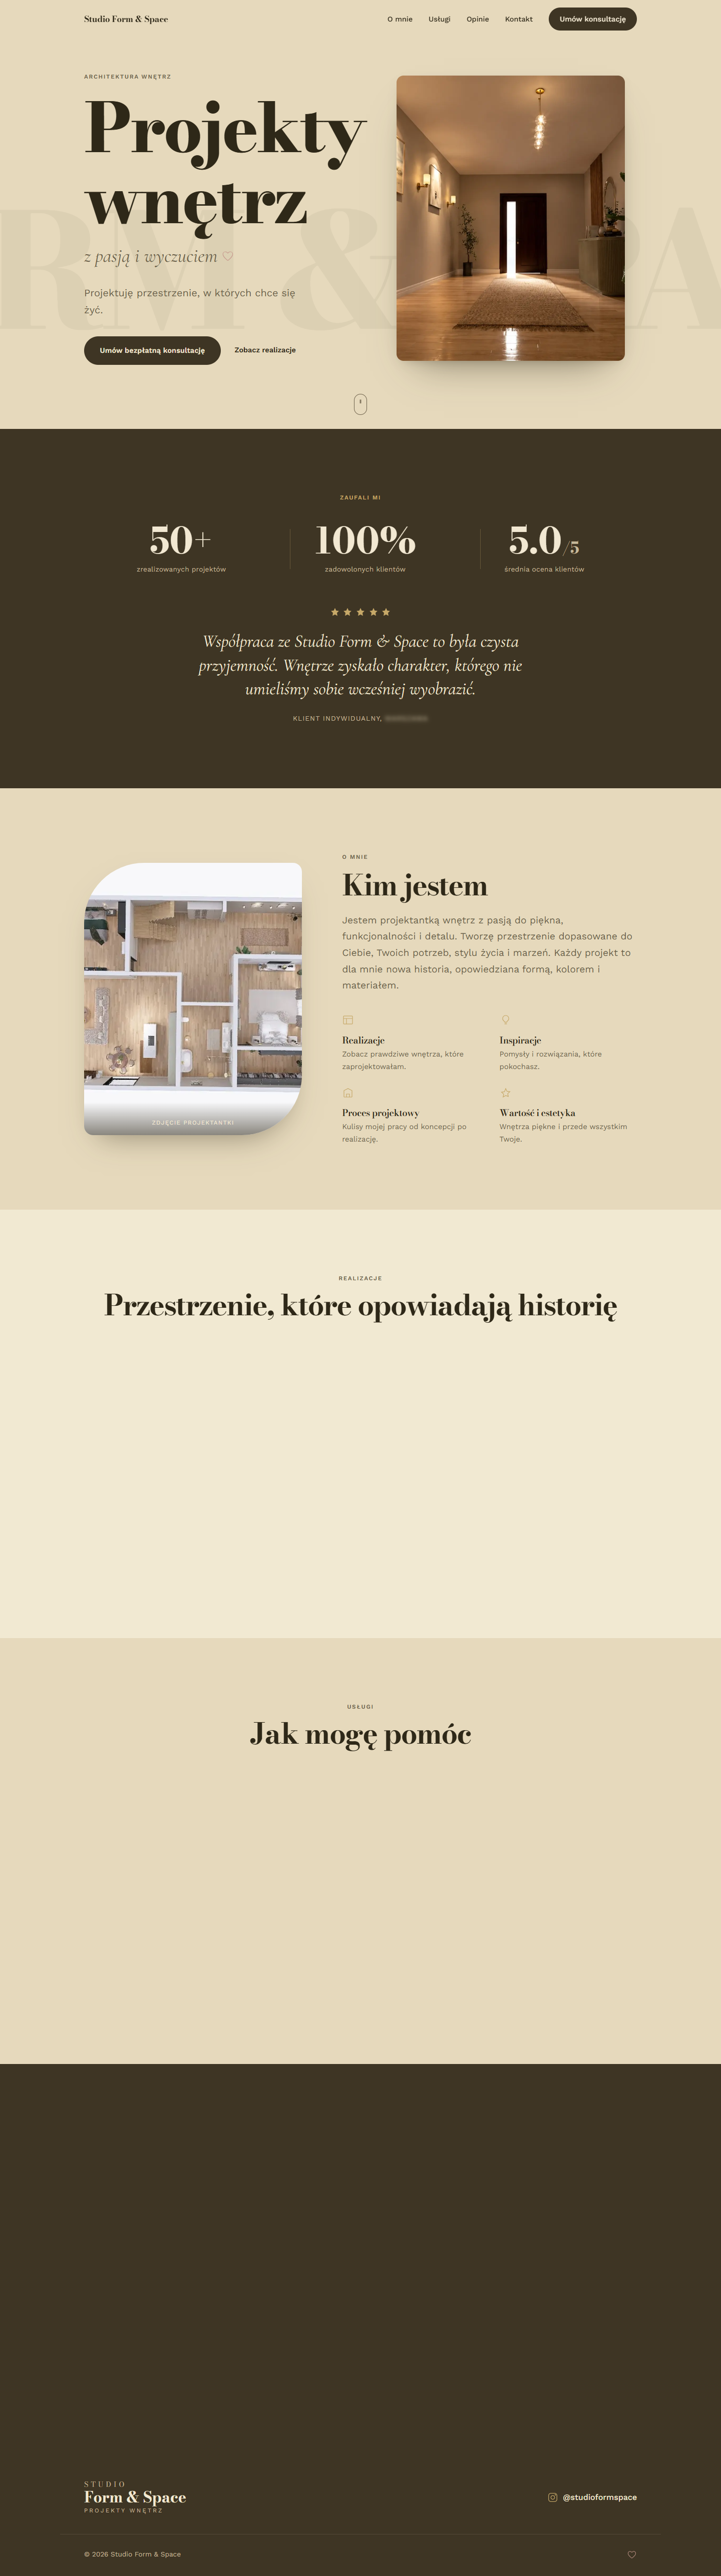
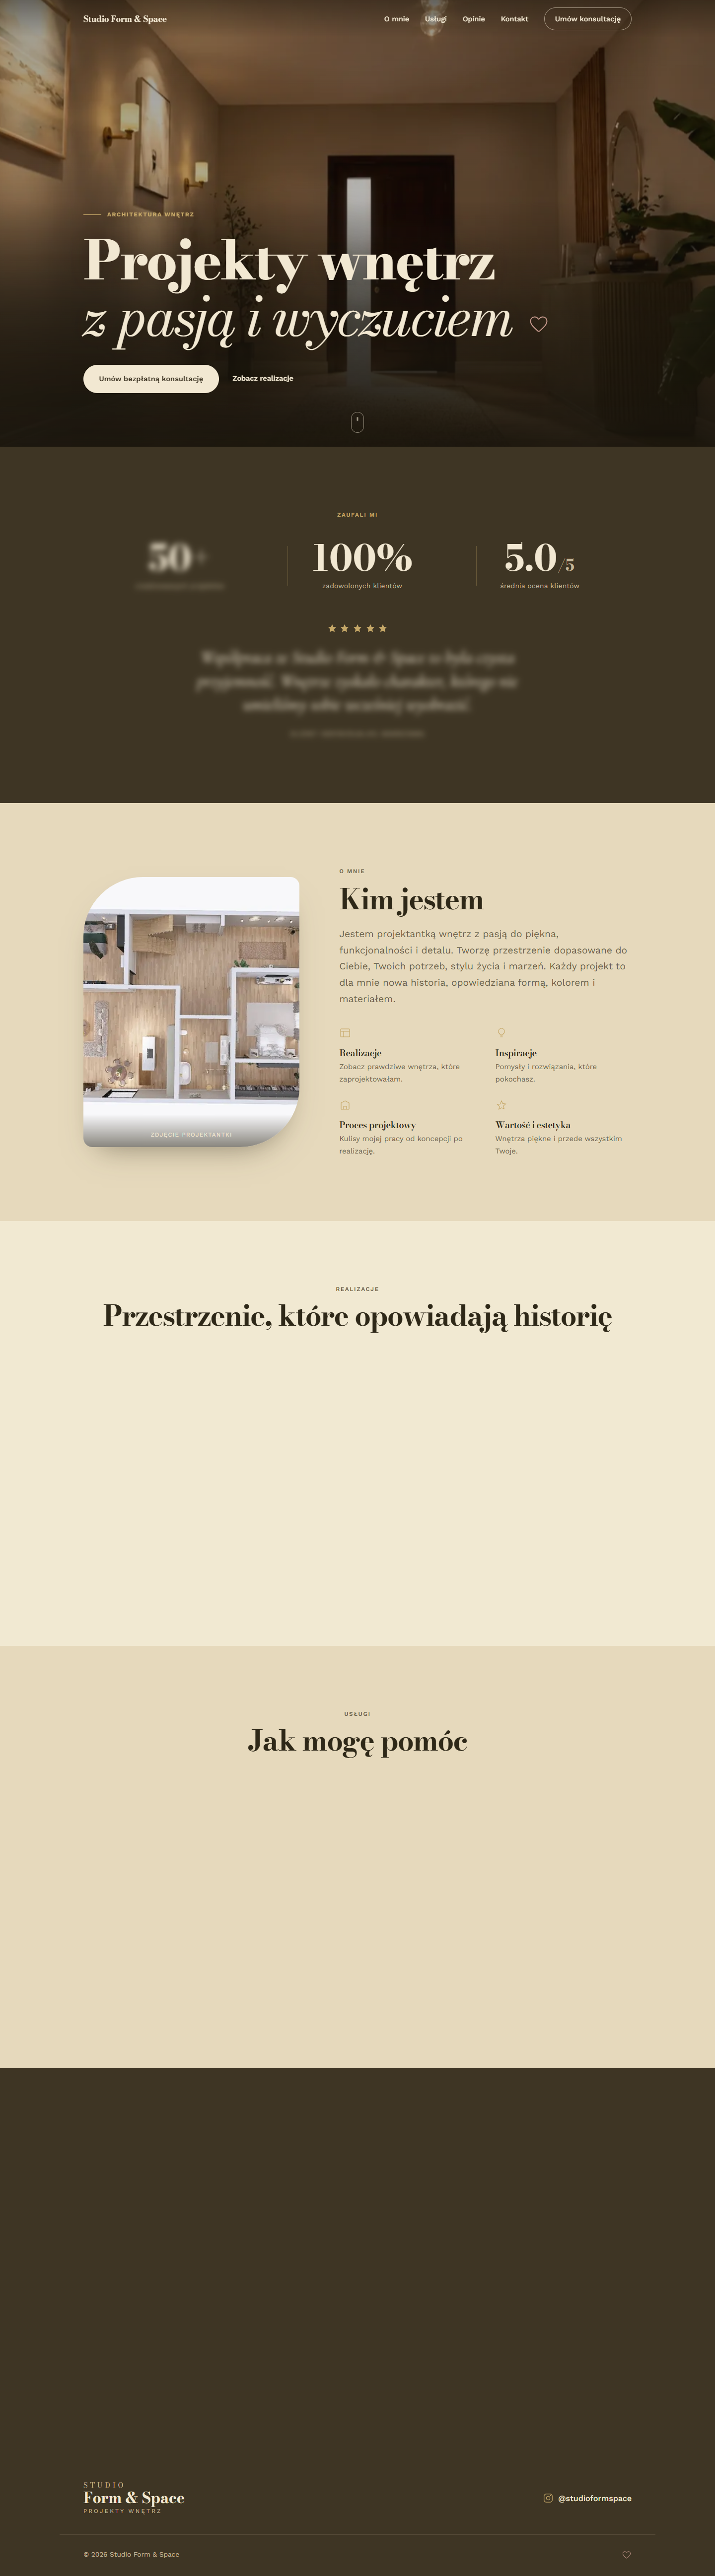
dsf

diff --git a/style.css b/style.css
@@ -38,12 +38,19 @@ h1,h2,h3{line-height:1.05;letter-spacing:-.03em}
 .btn-gold:hover{transform:translateY(-2px);box-shadow:0 14px 28px -14px rgba(198,168,104,.7)}
 .btn-gold:active{transform:translateY(-1px) scale(.98)}
 .link-underline{position:relative;font-weight:600;font-size:.9rem;padding-bottom:2px}
-.link-underline::after{content:"";position:absolute;left:0;bottom:0;width:100%;height:1px;background:currentColor;transform:scaleX(0);transform-origin:left;transition:transform .35s ease}
+.link-underline::after{content:"";position:absolute;left:0;bottom:0;width:100%;height:1px;background:currentColor;transform:scaleX(0);transform-origin:left;transition:transform .4s var(--ease-out)}
 .link-underline:hover::after,.link-underline:focus-visible::after{transform:scaleX(1)}
 
 /* header */
-#site-header{position:fixed;top:0;left:0;right:0;z-index:100;transition:background-color .4s ease,box-shadow .4s ease}
-#site-header.scrolled{background:rgba(241,233,210,.86);backdrop-filter:blur(12px);box-shadow:0 1px 0 rgba(46,40,24,.08)}
+#site-header{position:fixed;top:0;left:0;right:0;z-index:100;color:var(--cream);transition:background-color .5s var(--ease-out),box-shadow .5s var(--ease-out),color .4s ease}
+#site-header::before{content:"";position:absolute;inset:0;background:linear-gradient(to bottom,rgba(20,16,8,.4),transparent);opacity:1;transition:opacity .4s ease;pointer-events:none;z-index:-1}
+#site-header.scrolled{color:var(--ink);background:rgba(241,233,210,.86);backdrop-filter:blur(12px);box-shadow:0 1px 0 rgba(46,40,24,.08)}
+#site-header.scrolled::before{opacity:0}
+#site-header .nav-cta{background:transparent;border:1px solid rgba(242,232,210,.55);color:var(--cream);transition:background-color .3s var(--ease-out),color .3s var(--ease-out),border-color .3s var(--ease-out)}
+#site-header .nav-cta:hover{background:var(--cream);color:var(--dark);border-color:var(--cream)}
+#site-header.scrolled .nav-cta{background:var(--dark);border-color:var(--dark);color:var(--cream)}
+#site-header.scrolled .nav-cta:hover{background:#2E2818}
+#site-header.scrolled .menu-toggle span{background:var(--ink)}
 .header-inner{display:flex;align-items:center;justify-content:space-between;height:76px}
 .wordmark-mini{font-family:var(--serif);font-weight:700;font-size:1.05rem;letter-spacing:-.01em}
 .nav{display:flex;align-items:center;gap:2rem}
@@ -53,25 +60,36 @@ h1,h2,h3{line-height:1.05;letter-spacing:-.03em}
 .nav a:focus-visible{outline:2px solid var(--gold);outline-offset:4px;border-radius:2px}
 .nav-cta{padding:.6rem 1.3rem;min-height:0}
 .menu-toggle{display:none;flex-direction:column;gap:5px;background:none;border:0;cursor:pointer;padding:10px}
-.menu-toggle span{width:24px;height:2px;background:var(--ink);transition:transform .3s ease,opacity .3s ease}
+.menu-toggle span{width:24px;height:2px;background:var(--cream);transition:transform .3s var(--ease-out),background-color .3s ease}
 .mobile-menu{display:none;flex-direction:column;gap:.25rem;padding:0 clamp(1.25rem,5vw,3rem) 1.5rem}
 .mobile-menu a{padding:.85rem 0;font-size:1rem;border-bottom:1px solid rgba(46,40,24,.08)}
 .mobile-menu .btn{margin-top:.75rem;border-bottom:0}
 
-/* hero */
-.hero{position:relative;padding-top:clamp(8rem,16vh,11rem);padding-bottom:var(--space);overflow:hidden}
-.hero-ghost{position:absolute;top:32%;left:50%;transform:translateX(-50%);font-family:var(--serif);font-weight:800;font-size:clamp(7rem,22vw,20rem);color:var(--ink);opacity:.05;white-space:nowrap;pointer-events:none;letter-spacing:-.04em;z-index:0}
-.hero-grid{position:relative;z-index:1;display:grid;grid-template-columns:1.05fr .95fr;gap:clamp(2rem,5vw,4rem);align-items:center}
-.hero-copy .eyebrow{margin-bottom:1.25rem}
-.hero-copy .display{margin-bottom:.6rem}
-.script-accent{margin-bottom:1.5rem}
-.tagline{font-size:clamp(1.05rem,2vw,1.25rem);color:var(--ink-soft);max-width:34ch;margin-bottom:2.25rem}
-.hero-actions{display:flex;align-items:center;gap:1.75rem;flex-wrap:wrap}
-.hero-media{position:relative;border-radius:14px;overflow:hidden;box-shadow:0 40px 80px -40px rgba(46,40,24,.55),0 8px 24px -12px rgba(46,40,24,.3)}
-.hero-media img{width:100%;aspect-ratio:4/5;object-fit:cover;transition:transform .8s cubic-bezier(.2,.7,.2,1)}
-.hero-media:hover img{transform:scale(1.03)}
+/* hero — cinematic full-screen */
+.hero{position:relative;min-height:100svh;display:flex;align-items:flex-end;overflow:hidden;isolation:isolate}
+.hero-bg{position:absolute;inset:0;background:var(--dark);z-index:-3}
+.hero-img{position:absolute;inset:0;width:100%;height:100%;object-fit:cover;z-index:-2;transform:scale(1.08);animation:kenburns 20s var(--ease-in-out) infinite alternate;will-change:transform}
+@keyframes kenburns{from{transform:scale(1.08) translate(0,0)}to{transform:scale(1.16) translate(-1.5%,-2%)}}
+.hero-scrim{position:absolute;inset:0;z-index:-1;background:
+ linear-gradient(to top,rgba(24,20,12,.94) 0%,rgba(24,20,12,.7) 30%,rgba(24,20,12,.32) 55%,rgba(24,20,12,.42) 100%),
+ radial-gradient(130% 90% at 12% 92%,rgba(24,20,12,.72),transparent 62%)}
+.hero-content{position:relative;padding-bottom:clamp(5rem,12vh,9rem);padding-top:8rem;max-width:1200px;width:100%}
+.hero-content .eyebrow{display:inline-flex;align-items:center;gap:.75rem;color:var(--gold);font-weight:700;margin-bottom:1.5rem;opacity:0;animation:heroFade .9s var(--ease-out) .2s forwards;text-shadow:0 1px 20px rgba(24,20,12,.6)}
+.hero-content .eyebrow::before{content:"";width:36px;height:1px;background:var(--gold)}
+.hero-sub{font-family:var(--script);font-style:italic;font-size:clamp(1.3rem,2.6vw,1.9rem);color:var(--cream-soft);margin-bottom:1rem;opacity:0;animation:heroFade .9s var(--ease-out) .35s forwards}
+.hero-title{color:var(--cream);font-size:clamp(2.8rem,8.5vw,6.8rem);max-width:16ch;text-shadow:0 2px 40px rgba(20,16,8,.4);opacity:0;animation:heroFade 1s var(--ease-out) .5s forwards}
+.hero-title em{font-style:italic;font-weight:400;color:var(--cream)}
+.hero-title .heart{color:var(--sig);display:inline-block;vertical-align:middle;margin-left:.4rem;width:clamp(28px,4vw,44px);height:auto}
+.hero-actions{display:flex;align-items:center;gap:1.75rem;flex-wrap:wrap;margin-top:2.5rem;opacity:0;animation:heroFade 1s var(--ease-out) .7s forwards}
+@keyframes heroFade{from{opacity:0;transform:translateY(24px)}to{opacity:1;transform:none}}
+.btn-cream{background:var(--cream);color:var(--dark)}
+.btn-cream:hover{transform:translateY(-2px);box-shadow:0 16px 32px -16px rgba(0,0,0,.5)}
+.btn-cream:active{transform:translateY(-1px) scale(.98)}
+.link-underline.light{color:var(--cream)}
 .scroll-cue{position:absolute;left:50%;bottom:1.75rem;transform:translateX(-50%);width:26px;height:42px;border:1px solid var(--ink-soft);border-radius:14px;z-index:1}
+.scroll-cue.light{border-color:rgba(242,232,210,.5)}
 .scroll-cue span{position:absolute;left:50%;top:8px;width:3px;height:8px;background:var(--ink-soft);border-radius:2px;transform:translateX(-50%);animation:cue 1.8s ease infinite}
+.scroll-cue.light span{background:var(--cream)}
 @keyframes cue{0%{opacity:0;transform:translate(-50%,0)}30%{opacity:1}70%{opacity:1}100%{opacity:0;transform:translate(-50%,12px)}}
 
 /* dark sections */
@@ -112,18 +130,55 @@ h1,h2,h3{line-height:1.05;letter-spacing:-.03em}
 .gallery .eyebrow{margin-bottom:.75rem}
 .gallery .display{margin-bottom:3rem}
 .grid-gallery{display:grid;grid-template-columns:repeat(3,1fr);grid-auto-rows:220px;gap:1.25rem}
-.g-item{overflow:hidden;border-radius:12px;box-shadow:0 20px 40px -28px rgba(46,40,24,.5)}
-.g-item img{width:100%;height:100%;object-fit:cover;transition:transform .8s cubic-bezier(.2,.7,.2,1)}
-.g-item:hover img{transform:scale(1.05)}
+.g-item{position:relative;overflow:hidden;border-radius:12px;box-shadow:0 30px 60px -32px rgba(46,40,24,.55),0 8px 20px -12px rgba(46,40,24,.3);border:none;padding:0;background:none;cursor:pointer;font:inherit;color:inherit;display:block;width:100%;height:100%;transition:transform .35s var(--ease-out),box-shadow .35s var(--ease-out)}
+.g-item::after{content:"";position:absolute;inset:0;background:linear-gradient(to top,rgba(46,40,24,.5),transparent 55%);opacity:.7;transition:opacity .5s var(--ease-out);pointer-events:none}
+.g-item:hover,.g-item:focus-visible{transform:translateY(-4px);box-shadow:0 40px 70px -30px rgba(46,40,24,.6),0 12px 24px -12px rgba(46,40,24,.35)}
+.g-item:hover::after{opacity:.4}
+.g-item:focus-visible{outline:2px solid var(--gold);outline-offset:3px}
+.g-item:active{transform:translateY(-1px) scale(.99)}
+.g-item img{width:100%;height:100%;object-fit:cover;transition:transform 1s var(--ease-out)}
+.g-item:hover img{transform:scale(1.06)}
 .g-item.tall{grid-row:span 2}
 .g-item.wide{grid-column:span 2}
+.g-caption{position:absolute;left:1.25rem;bottom:1rem;right:1.25rem;text-align:left;font-size:.95rem;font-weight:600;letter-spacing:.01em;color:var(--cream)}
+
+/* lightbox */
+.lightbox{position:fixed;inset:0;z-index:300;display:flex;flex-direction:column;align-items:center;justify-content:center;gap:1rem;background:rgba(20,17,10,.92);backdrop-filter:blur(6px);padding:clamp(1rem,4vw,3rem);opacity:0;transition:opacity .35s var(--ease-out)}
+.lightbox[hidden]{display:none}
+.lightbox.open{opacity:1}
+.lb-stage{position:relative;width:100%;max-width:1100px;display:flex;align-items:center;gap:1rem}
+.lb-track{position:relative;flex:1;aspect-ratio:16/10;max-height:78vh;border-radius:16px;overflow:hidden;box-shadow:0 50px 90px -30px rgba(0,0,0,.65),0 15px 35px -15px rgba(0,0,0,.5)}
+.lb-slide{position:absolute;inset:0;opacity:0;transform:scale(.98);transition:opacity .45s var(--ease-out),transform .45s var(--ease-out)}
+.lb-slide.active{position:relative;opacity:1;transform:none}
+.lb-slide img{width:100%;height:100%;object-fit:cover;border-radius:16px}
+.lb-caption{position:absolute;left:0;right:0;bottom:0;padding:1.75rem 2rem 1.5rem;background:linear-gradient(to top,rgba(20,17,10,.75),transparent);color:var(--cream);font-family:var(--serif);font-size:clamp(1.2rem,3vw,1.6rem);font-weight:600;opacity:0;transform:translateX(-24px);transition:opacity .5s var(--ease-out) .1s,transform .5s var(--ease-out) .1s}
+.lb-slide.active .lb-caption{opacity:1;transform:none}
+.lb-slide.dir-right .lb-caption{transform:translateX(24px)}
+.lb-nav{flex-shrink:0;width:52px;height:52px;border-radius:999px;border:1px solid rgba(242,232,210,.25);background:rgba(242,232,210,.08);color:var(--cream);display:flex;align-items:center;justify-content:center;cursor:pointer;transition:transform .22s var(--ease-out),background-color .22s var(--ease-out)}
+.lb-nav:hover{background:rgba(242,232,210,.18);transform:scale(1.06)}
+.lb-nav:active{transform:scale(.94)}
+.lb-nav:focus-visible{outline:2px solid var(--gold);outline-offset:2px}
+.lb-close{position:absolute;top:-3.25rem;right:0;width:44px;height:44px;border-radius:999px;border:1px solid rgba(242,232,210,.25);background:rgba(242,232,210,.08);color:var(--cream);display:flex;align-items:center;justify-content:center;cursor:pointer;transition:transform .22s var(--ease-out),background-color .22s var(--ease-out);z-index:2}
+.lb-close:hover{background:rgba(242,232,210,.18);transform:scale(1.06) rotate(90deg)}
+.lb-close:focus-visible{outline:2px solid var(--gold);outline-offset:2px}
+.lb-counter{font-size:.85rem;letter-spacing:.08em;color:var(--cream-soft)}
+
+@media(max-width:640px){
+.lb-stage{gap:.5rem}
+.lb-nav{width:40px;height:40px}
+.lb-nav svg{width:18px;height:18px}
+.lb-track{aspect-ratio:4/5;max-height:70vh;border-radius:12px}
+.lb-slide img{border-radius:12px}
+.lb-close{top:auto;bottom:calc(100% + .5rem);right:0}
+.lb-caption{padding:1.25rem 1.25rem 1.1rem;font-size:1.05rem}
+}
 
 /* services */
 .services{padding-block:var(--space)}
 .services .eyebrow{margin-bottom:.75rem}
 .services .display{margin-bottom:3rem}
 .grid-services{display:grid;grid-template-columns:1fr 1fr;gap:1.5rem}
-.service{background:var(--surface);border:1px solid rgba(46,40,24,.06);border-radius:14px;padding:2.25rem;transition:transform .3s ease,box-shadow .3s ease}
+.service{background:var(--surface);border:1px solid rgba(46,40,24,.06);border-radius:14px;padding:2.25rem;transition:transform .35s var(--ease-out),box-shadow .35s var(--ease-out)}
 .service:hover{transform:translateY(-4px);box-shadow:0 24px 48px -28px rgba(46,40,24,.4)}
 .service svg{color:var(--gold);margin-bottom:1.1rem}
 .service h3{font-family:var(--serif);font-weight:600;font-size:1.4rem;margin-bottom:.6rem}
@@ -158,24 +213,24 @@ footer{padding-block:3.5rem 2rem}
 .footer-base p{font-size:.85rem;color:var(--cream-soft)}
 .footer-base .heart{color:var(--sig)}
 
-.blurred{filter:blur(4px);user-select:none}
+.blurred{filter:blur(6px);user-select:none}
 
 /* reveal */
-.reveal{opacity:0;transform:translateY(28px);transition:opacity .7s ease,transform .7s cubic-bezier(.2,.7,.2,1)}
+.reveal{opacity:0;transform:translateY(22px);transition:opacity .65s var(--ease-out),transform .65s var(--ease-out);transition-delay:calc(var(--i,0)*70ms)}
 .reveal.in{opacity:1;transform:none}
+.no-js .reveal{opacity:1;transform:none}
 
 /* responsive */
 @media(max-width:900px){
 .nav{display:none}
 .menu-toggle{display:flex}
-#site-header.open{background:rgba(241,233,210,.96);backdrop-filter:blur(12px)}
+#site-header.open{color:var(--ink);background:rgba(241,233,210,.97);backdrop-filter:blur(12px)}
+#site-header.open::before{opacity:0}
+#site-header.open .menu-toggle span{background:var(--ink)}
+#site-header.open .nav-cta{background:var(--dark);border-color:var(--dark);color:var(--cream)}
 #site-header.open .mobile-menu{display:flex}
 #site-header.open .menu-toggle span:first-child{transform:translateY(3.5px) rotate(45deg)}
 #site-header.open .menu-toggle span:last-child{transform:translateY(-3.5px) rotate(-45deg)}
-.hero-grid{grid-template-columns:1fr}
-.hero-media{order:-1;max-width:520px}
-.hero-media img{aspect-ratio:16/12}
-.hero-ghost{top:24%}
 .about-grid{grid-template-columns:1fr;gap:2.5rem}
 .about-photo{max-width:440px}
 .contact-grid{grid-template-columns:1fr;gap:2.5rem}
@@ -191,4 +246,10 @@ footer{padding-block:3.5rem 2rem}
 .hero-actions{gap:1.25rem}
 .footer-inner{flex-direction:column;align-items:flex-start}
 }
-@media(prefers-reduced-mo
+@media(prefers-reduced-motion:reduce){
+*{animation:none!important;scroll-behavior:auto!important}
+.reveal{opacity:1;transform:none;transition:none}
+.hero-img{animation:none;transform:scale(1.02)}
+.hero-content .eyebrow,.hero-sub,.hero-title,.hero-actions{opacity:1;animation:none}
+.g-item img{transition:none}
+}

diff --git a/script.js b/script.js
@@ -1,3 +1,5 @@
+document.documentElement.classList.remove('no-js')
+
 const header = document.getElementById('site-header')
 const toggle = document.querySelector('.menu-toggle')
 
@@ -26,13 +28,83 @@ const io = new IntersectionObserver((entries) => {
   })
 }, {threshold: 0.01, rootMargin: '0px 0px -8% 0px'})
 const reveals = document.querySelectorAll('.reveal')
-reveals.forEach(el => io.observe(el))
-window.addEventListener('load', () => {
-  setTimeout(() => reveals.forEach(el => {
-    const r = el.getBoundingClientRect()
-    if (r.top < window.innerHeight) el.classList.add('in')
-  }), 200)
+document.querySelectorAll('.pillars, .grid-services, .stats, .grid-gallery').forEach(group => {
+  [...group.children].forEach((child, i) => {
+    if (child.classList.contains('reveal') && !child.style.getPropertyValue('--i')) child.style.setProperty('--i', i)
+  })
 })
+reveals.forEach(el => io.observe(el))
+setTimeout(() => reveals.forEach(el => {
+  if (!el.classList.contains('in') && el.getBoundingClientRect().top < window.innerHeight * 1.1) el.classList.add('in')
+}), 300)
+
+const galleryItems = [...document.querySelectorAll('.g-item')]
+const lightbox = document.getElementById('lightbox')
+const lbTrack = lightbox.querySelector('.lb-track')
+const lbCounter = lightbox.querySelector('.lb-counter')
+const lbPrev = lightbox.querySelector('.lb-prev')
+const lbNext = lightbox.querySelector('.lb-next')
+const lbClose = lightbox.querySelector('.lb-close')
+let lbIndex = 0
+let lastFocused = null
+
+const slides = galleryItems.map(item => {
+  const img = item.querySelector('img')
+  return {src: img.src, alt: img.alt, caption: item.querySelector('.g-caption').textContent}
+})
+
+const renderSlide = (dir) => {
+  const {src, alt, caption} = slides[lbIndex]
+  const old = lbTrack.querySelector('.lb-slide')
+  const next = document.createElement('figure')
+  next.className = `lb-slide${dir === 'right' ? ' dir-right' : ''}`
+  next.innerHTML = `<img src="${src}" alt="${alt}"><figcaption class="lb-caption">${caption}</figcaption>`
+  lbTrack.appendChild(next)
+  requestAnimationFrame(() => next.classList.add('active'))
+  if (old) old.remove()
+  lbCounter.textContent = `${lbIndex + 1} / ${slides.length}`
+}
+
+const openLightbox = (index) => {
+  lbIndex = index
+  lastFocused = document.activeElement
+  lightbox.hidden = false
+  requestAnimationFrame(() => lightbox.classList.add('open'))
+  renderSlide()
+  document.body.style.overflow = 'hidden'
+  lbClose.focus()
+}
+
+const closeLightbox = () => {
+  lightbox.classList.remove('open')
+  document.body.style.overflow = ''
+  setTimeout(() => { lightbox.hidden = true }, 350)
+  if (lastFocused) lastFocused.focus()
+}
+
+const goTo = (delta) => {
+  lbIndex = (lbIndex + delta + slides.length) % slides.length
+  renderSlide(delta > 0 ? 'right' : 'left')
+}
+
+galleryItems.forEach((item, i) => item.addEventListener('click', () => openLightbox(i)))
+lbPrev.addEventListener('click', () => goTo(-1))
+lbNext.addEventListener('click', () => goTo(1))
+lbClose.addEventListener('click', closeLightbox)
+lightbox.addEventListener('click', (e) => { if (e.target === lightbox) closeLightbox() })
+document.addEventListener('keydown', (e) => {
+  if (lightbox.hidden) return
+  if (e.key === 'Escape') closeLightbox()
+  if (e.key === 'ArrowRight') goTo(1)
+  if (e.key === 'ArrowLeft') goTo(-1)
+})
+
+let touchStartX = 0
+lbTrack.addEventListener('touchstart', (e) => { touchStartX = e.touches[0].clientX }, {passive: true})
+lbTrack.addEventListener('touchend', (e) => {
+  const dx = e.changedTouches[0].clientX - touchStartX
+  if (Math.abs(dx) > 40) goTo(dx < 0 ? 1 : -1)
+}, {passive: true})
 
 const form = document.querySelector('.contact-form')
 const status = document.querySelector('.form-status')

diff --git a/index.html b/index.html
@@ -1,12 +1,12 @@
 <!DOCTYPE html>
-<html lang="pl">
+<html lang="pl" class="no-js">
 <head>
 <meta charset="UTF-8">
 <meta name="viewport" content="width=device-width, initial-scale=1">
 <title>Studio Form & Space — Projekty wnętrz z pasją i wyczuciem</title>
-<meta name="description" content="Pracownia projektowania wnętrz Studio Form & Space. Projektuję przestrzenie, w których chce się żyć — od pierwszej koncepcji po ostatni detal.">
+<meta name="description" content="Pracownia projektowania wnętrz Studio Form & Space. Kompleksowe projektowanie wnętrz — od pierwszej koncepcji po ostatni detal.">
 <meta property="og:title" content="Studio Form & Space — Architektura wnętrz">
-<meta property="og:description" content="Projektuję przestrzenie, w których chce się żyć. Kompleksowe projektowanie wnętrz, wizualizacje 3D, aranżacja i nadzór autorski.">
+<meta property="og:description" content="Kompleksowe projektowanie wnętrz, wizualizacje 3D, aranżacja i nadzór autorski.">
 <meta property="og:image" content="logo.png">
 <meta property="og:type" content="website">
 <meta name="theme-color" content="#3E3524">
@@ -44,34 +44,29 @@
 
 <main id="main">
 <section class="hero" id="top">
-<div class="hero-ghost" aria-hidden="true">FORM&nbsp;&amp;&nbsp;SPACE</div>
-<div class="wrap hero-grid">
-<div class="hero-copy reveal">
+<div class="hero-bg" aria-hidden="true"></div>
+<img class="hero-img" src="Images/hall.webp" alt="Elegancki, ciepło oświetlony hol zaprojektowany przez Studio Form &amp; Space" width="1440" height="900">
+<div class="hero-scrim" aria-hidden="true"></div>
+<div class="wrap hero-content">
 <p class="eyebrow">Architektura wnętrz</p>
-<h1 class="display">Projekty<br>wnętrz</h1>
-<p class="script-accent">z pasją i wyczuciem
-<svg class="heart" viewBox="0 0 24 24" width="26" height="26" aria-hidden="true"><path d="M12 20.5C11.6 20.5 11.2 20.35 10.9 20.06C6.5 16.13 3 12.99 3 9.2C3 6.6 5 4.6 7.5 4.6C9 4.6 10.4 5.35 11.25 6.55C11.5 6.9 11.75 7.1 12 7.1C12.25 7.1 12.5 6.9 12.75 6.55C13.6 5.35 15 4.6 16.5 4.6C19 4.6 21 6.6 21 9.2C21 12.99 17.5 16.13 13.1 20.06C12.8 20.35 12.4 20.5 12 20.5Z" fill="none" stroke="currentColor" stroke-width="1.1"/></svg>
-</p>
-<p class="tagline">Projektuję przestrzenie, w których chce się żyć.</p>
+<h1 class="display hero-title">Projekty wnętrz<br><em>z pasją i wyczuciem</em>
+<svg class="heart" viewBox="0 0 24 24" width="clamp(28,4vw,44)" height="44" aria-hidden="true"><path d="M12 20.5C11.6 20.5 11.2 20.35 10.9 20.06C6.5 16.13 3 12.99 3 9.2C3 6.6 5 4.6 7.5 4.6C9 4.6 10.4 5.35 11.25 6.55C11.5 6.9 11.75 7.1 12 7.1C12.25 7.1 12.5 6.9 12.75 6.55C13.6 5.35 15 4.6 16.5 4.6C19 4.6 21 6.6 21 9.2C21 12.99 17.5 16.13 13.1 20.06C12.8 20.35 12.4 20.5 12 20.5Z" fill="none" stroke="currentColor" stroke-width="1.1"/></svg>
+</h1>
 <div class="hero-actions">
-<a href="#kontakt" class="btn btn-solid">Umów bezpłatną konsultację</a>
-<a href="#opinie" class="link-underline">Zobacz realizacje</a>
+<a href="#kontakt" class="btn btn-cream">Umów bezpłatną konsultację</a>
+<a href="#opinie" class="link-underline light">Zobacz realizacje</a>
 </div>
 </div>
-<div class="hero-media reveal">
-<img src="Images/hall.webp" alt="Elegancki, ciepło oświetlony hol zaprojektowany przez Studio Form &amp; Space" width="1080" height="1080">
-</div>
-</div>
-<a href="#proof" class="scroll-cue" aria-label="Przewiń w dół"><span></span></a>
+<a href="#proof" class="scroll-cue light" aria-label="Przewiń w dół"><span></span></a>
 </section>
 
 <section class="proof dark" id="proof">
 <div class="wrap">
 <p class="eyebrow gold center">Zaufali mi</p>
 <div class="stats">
-<div class="stat reveal"><span class="num">50+</span><span class="stat-label">zrealizowanych projektów</span></div>
-<div class="stat reveal"><span class="num">100%</span><span class="stat-label">zadowolonych klientów</span></div>
-<div class="stat reveal"><span class="num">5.0<small>/5</small></span><span class="stat-label">średnia ocena klientów</span></div>
+<div class="stat reveal" style="--i:0"><span class="num blurred">50+</span><span class="stat-label blurred">zrealizowanych projektów</span></div>
+<div class="stat reveal" style="--i:1"><span class="num">100%</span><span class="stat-label">zadowolonych klientów</span></div>
+<div class="stat reveal" style="--i:2"><span class="num">5.0<small>/5</small></span><span class="stat-label">średnia ocena klientów</span></div>
 </div>
 <figure class="quote reveal">
 <div class="stars" aria-label="Ocena 5 na 5">
@@ -81,8 +76,8 @@
 <svg viewBox="0 0 24 24" width="20" height="20"><path d="M12 2l2.9 6.26L21.5 9.2l-4.75 4.64L17.9 21 12 17.6 6.1 21l1.15-7.16L2.5 9.2l6.6-.94z" fill="currentColor"/></svg>
 <svg viewBox="0 0 24 24" width="20" height="20"><path d="M12 2l2.9 6.26L21.5 9.2l-4.75 4.64L17.9 21 12 17.6 6.1 21l1.15-7.16L2.5 9.2l6.6-.94z" fill="currentColor"/></svg>
 </div>
-<blockquote>Współpraca ze Studio Form &amp; Space to była czysta przyjemność. Wnętrze zyskało charakter, którego nie umieliśmy sobie wcześniej wyobrazić.</blockquote>
-<figcaption>Klient indywidualny, <span class="blurred">Warszawa</span></figcaption>
+<blockquote class="blurred">Współpraca ze Studio Form &amp; Space to była czysta przyjemność. Wnętrze zyskało charakter, którego nie umieliśmy sobie wcześniej wyobrazić.</blockquote>
+<figcaption><span class="blurred">Klient indywidualny, Warszawa</span></figcaption>
 </figure>
 </div>
 </section>
@@ -124,13 +119,31 @@
 <p class="eyebrow center">Realizacje</p>
 <h2 class="display sm center">Przestrzenie, które opowiadają historię</h2>
 <div class="grid-gallery">
-<figure class="g-item tall reveal"><img src="Images/bedroom.webp" alt="Jasna, przytulna sypialnia w ciepłej palecie beżu" width="1080" height="608" loading="lazy"></figure>
-<figure class="g-item reveal"><img src="Images/bathroom.webp" alt="Nowoczesna łazienka ze złotymi detalami i naturalnym kamieniem" width="1080" height="1080" loading="lazy"></figure>
-<figure class="g-item reveal"><img src="Images/livingroom.webp" alt="Ciepły salon z beżową paletą i drewnianą podłogą" width="1080" height="608" loading="lazy"></figure>
-<figure class="g-item wide reveal"><img src="Images/hall.webp" alt="Elegancki hol z ciepłym oświetleniem" width="1080" height="1080" loading="lazy"></figure>
+<button type="button" class="g-item tall reveal" style="--i:0" data-index="0"><img src="Images/bedroom.webp" alt="Jasna, przytulna sypialnia w ciepłej palecie beżu" width="1080" height="608" loading="lazy"><span class="g-caption">Sypialnia</span></button>
+<button type="button" class="g-item reveal" style="--i:1" data-index="1"><img src="Images/bathroom.webp" alt="Nowoczesna łazienka ze złotymi detalami i naturalnym kamieniem" width="1080" height="1080" loading="lazy"><span class="g-caption">Łazienka</span></button>
+<button type="button" class="g-item reveal" style="--i:2" data-index="2"><img src="Images/livingroom.webp" alt="Ciepły salon z beżową paletą i drewnianą podłogą" width="1080" height="608" loading="lazy"><span class="g-caption">Salon</span></button>
+<button type="button" class="g-item wide reveal" style="--i:1" data-index="3"><img src="Images/hall.webp" alt="Elegancki hol z ciepłym oświetleniem" width="1080" height="1080" loading="lazy"><span class="g-caption">Hol</span></button>
 </div>
 </div>
 </section>
+
+<div class="lightbox" id="lightbox" role="dialog" aria-modal="true" aria-label="Podgląd zdjęcia" hidden>
+<div class="lb-stage">
+<button type="button" class="lb-close" aria-label="Zamknij podgląd">
+<svg viewBox="0 0 24 24" width="22" height="22" aria-hidden="true"><path d="M5 5l14 14M19 5L5 19" stroke="currentColor" stroke-width="1.6" stroke-linecap="round"/></svg>
+</button>
+<button type="button" class="lb-nav lb-prev" aria-label="Poprzednie zdjęcie">
+<svg viewBox="0 0 24 24" width="24" height="24" aria-hidden="true"><path d="M15 5l-8 7 8 7" fill="none" stroke="currentColor" stroke-width="1.6" stroke-linecap="round" stroke-linejoin="round"/></svg>
+</button>
+<div class="lb-track">
+<figure class="lb-slide"><img alt=""><figcaption class="lb-caption"></figcaption></figure>
+</div>
+<button type="button" class="lb-nav lb-next" aria-label="Następne zdjęcie">
+<svg viewBox="0 0 24 24" width="24" height="24" aria-hidden="true"><path d="M9 5l8 7-8 7" fill="none" stroke="currentColor" stroke-width="1.6" stroke-linecap="round" stroke-linejoin="round"/></svg>
+</button>
+</div>
+<p class="lb-counter"></p>
+</div>
 
 <section class="services" id="uslugi">
 <div class="wrap">